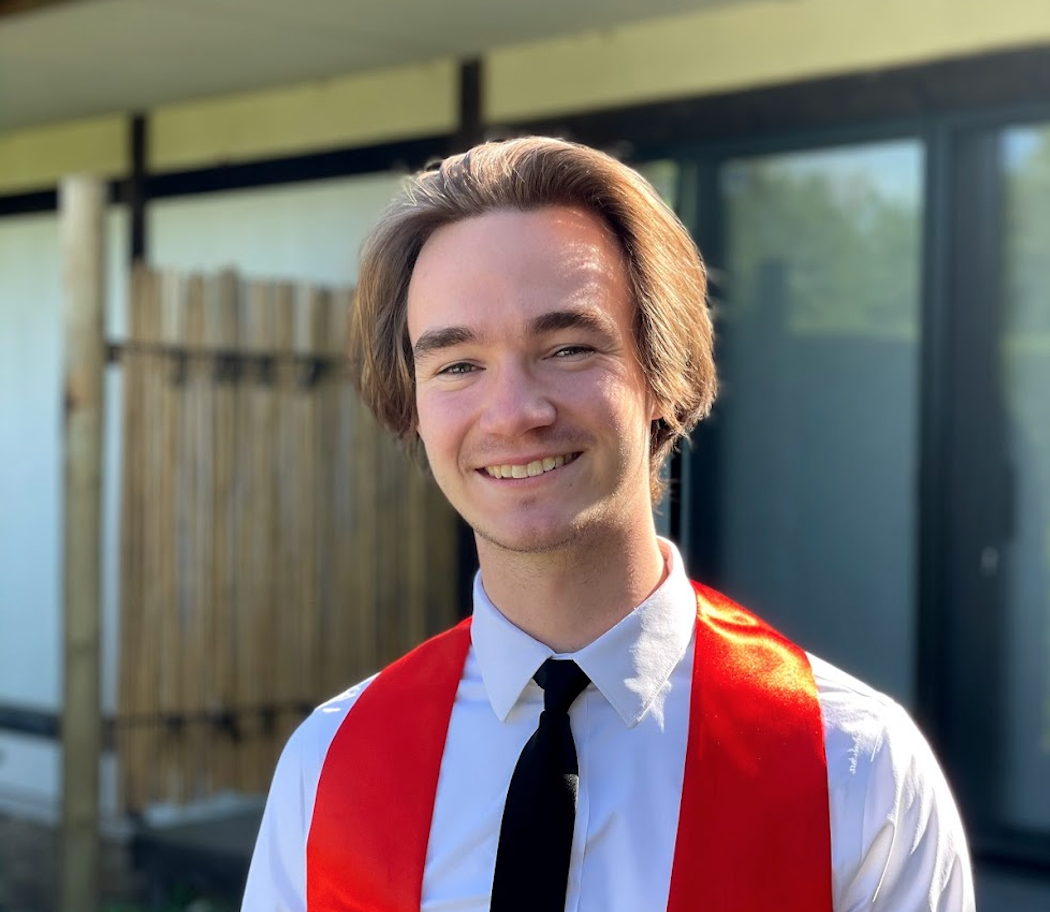
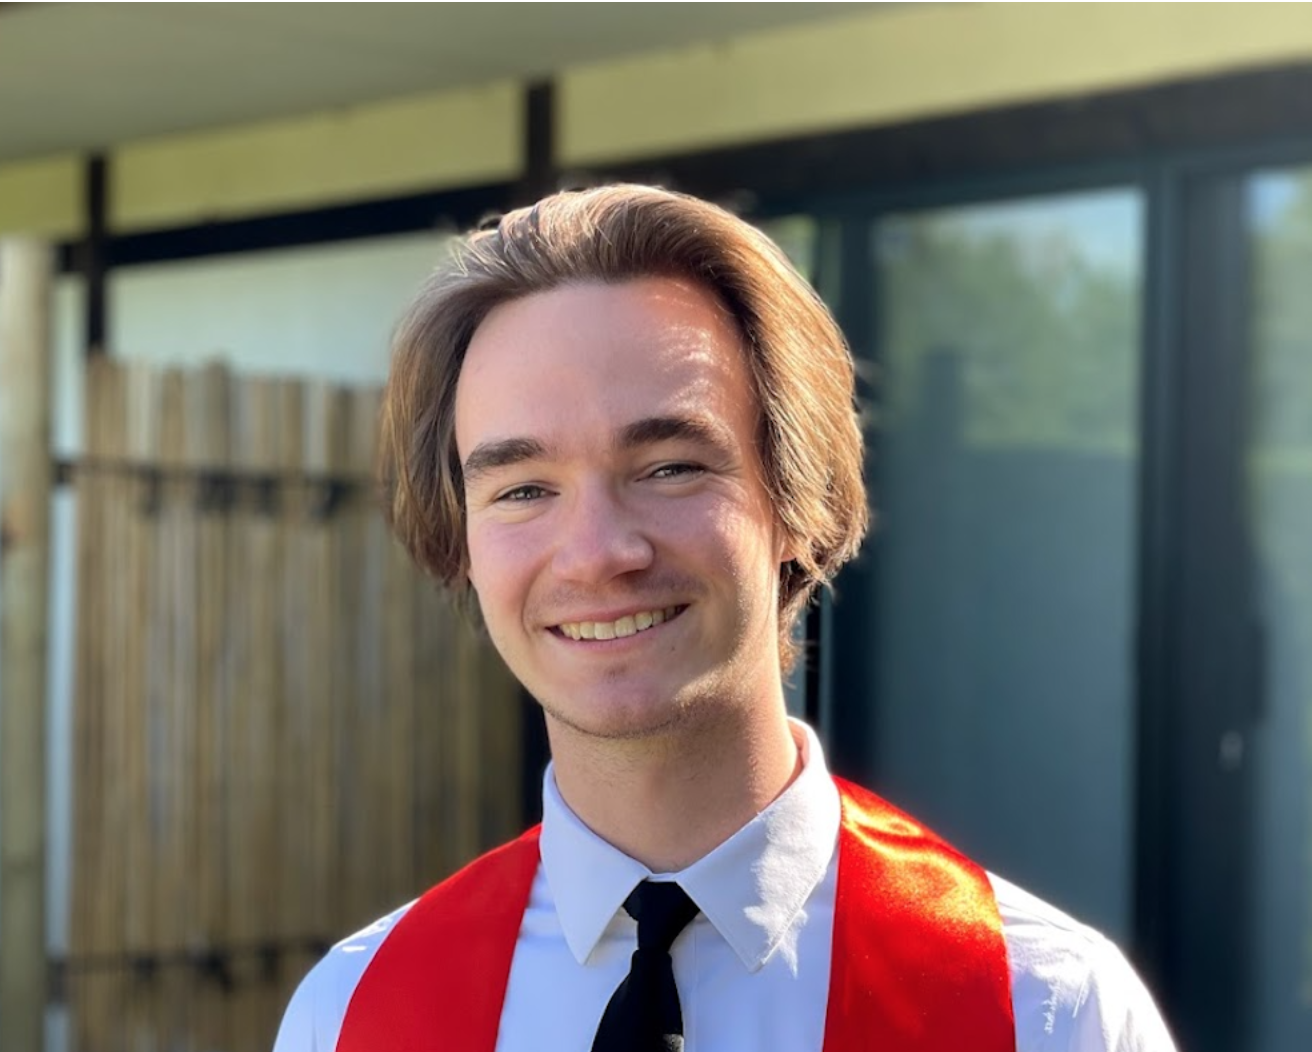
Added intro screen finished

diff --git a/src/components/Intro/Intro.js b/src/components/Intro/Intro.js
@@ -7,7 +7,8 @@ export default function Intro() {
       <img src={Me} className="Profile-image" />
       <p className="Title-text">Alexander Drewno</p>
       <p className="Description-text">
-        Hi I’m Alex, a Software Engineer who loves tea ☕ and the outdoors 🌳
+        Hi I’m Alex 👋 , a Software Engineer who loves tea and the outdoors ☕
+        🌳
       </p>
 
       <div
@@ -18,35 +19,35 @@ export default function Intro() {
         }}
       >
         <a
-          href="about"
+          href="/projects"
           className="Highlighted-text-small"
           style={{ backgroundColor: "#577590" }}
         >
           Projects
         </a>
         <a
-          href="about"
+          href="https://github.com/kirbec"
           className="Highlighted-text-small"
           style={{ backgroundColor: "#277da1" }}
         >
           Github
         </a>
         <a
-          href="about"
+          href="https://www.linkedin.com/in/alexander-drewno-7ba825170/"
           className="Highlighted-text-small"
           style={{ backgroundColor: "#f3722c" }}
         >
           LinkedIn
         </a>
         <a
-          href="about"
+          href="https://drive.google.com/file/d/1pH_l7XCabM0Avzg98wcO_P6i60-H-uZ6/view?usp=sharing"
           className="Highlighted-text-small"
           style={{ backgroundColor: "#f8961e" }}
         >
           Resume
         </a>
         <a
-          href="about"
+          href="mailto: adrewno14@gmail.com"
           className="Highlighted-text-small"
           style={{ backgroundColor: "#f8961e" }}
         >

diff --git a/src/App.js b/src/App.js
@@ -52,7 +52,7 @@ function App() {
   return (
     <Router>
       <Switch>
-        <Route path="/">
+        <Route exact path="/">
           <Intro />
         </Route>
         <Route path="/projects">

diff --git a/src/components/Intro/intro.css b/src/components/Intro/intro.css
@@ -7,9 +7,10 @@
 }
 
 .Profile-image {
-  width: 85px;
-  height: 85px;
+  width: 100px;
+  height: 100px;
   border-radius: 99px;
+  object-fit: cover;
 }
 
 .Title-text {

diff --git a/src/App.css b/src/App.css
@@ -23,6 +23,7 @@
   justify-content: space-between;
   flex-direction: row;
   flex-wrap: wrap;
+  margin-top: -20px;
 }
 
 .App-row-container {
